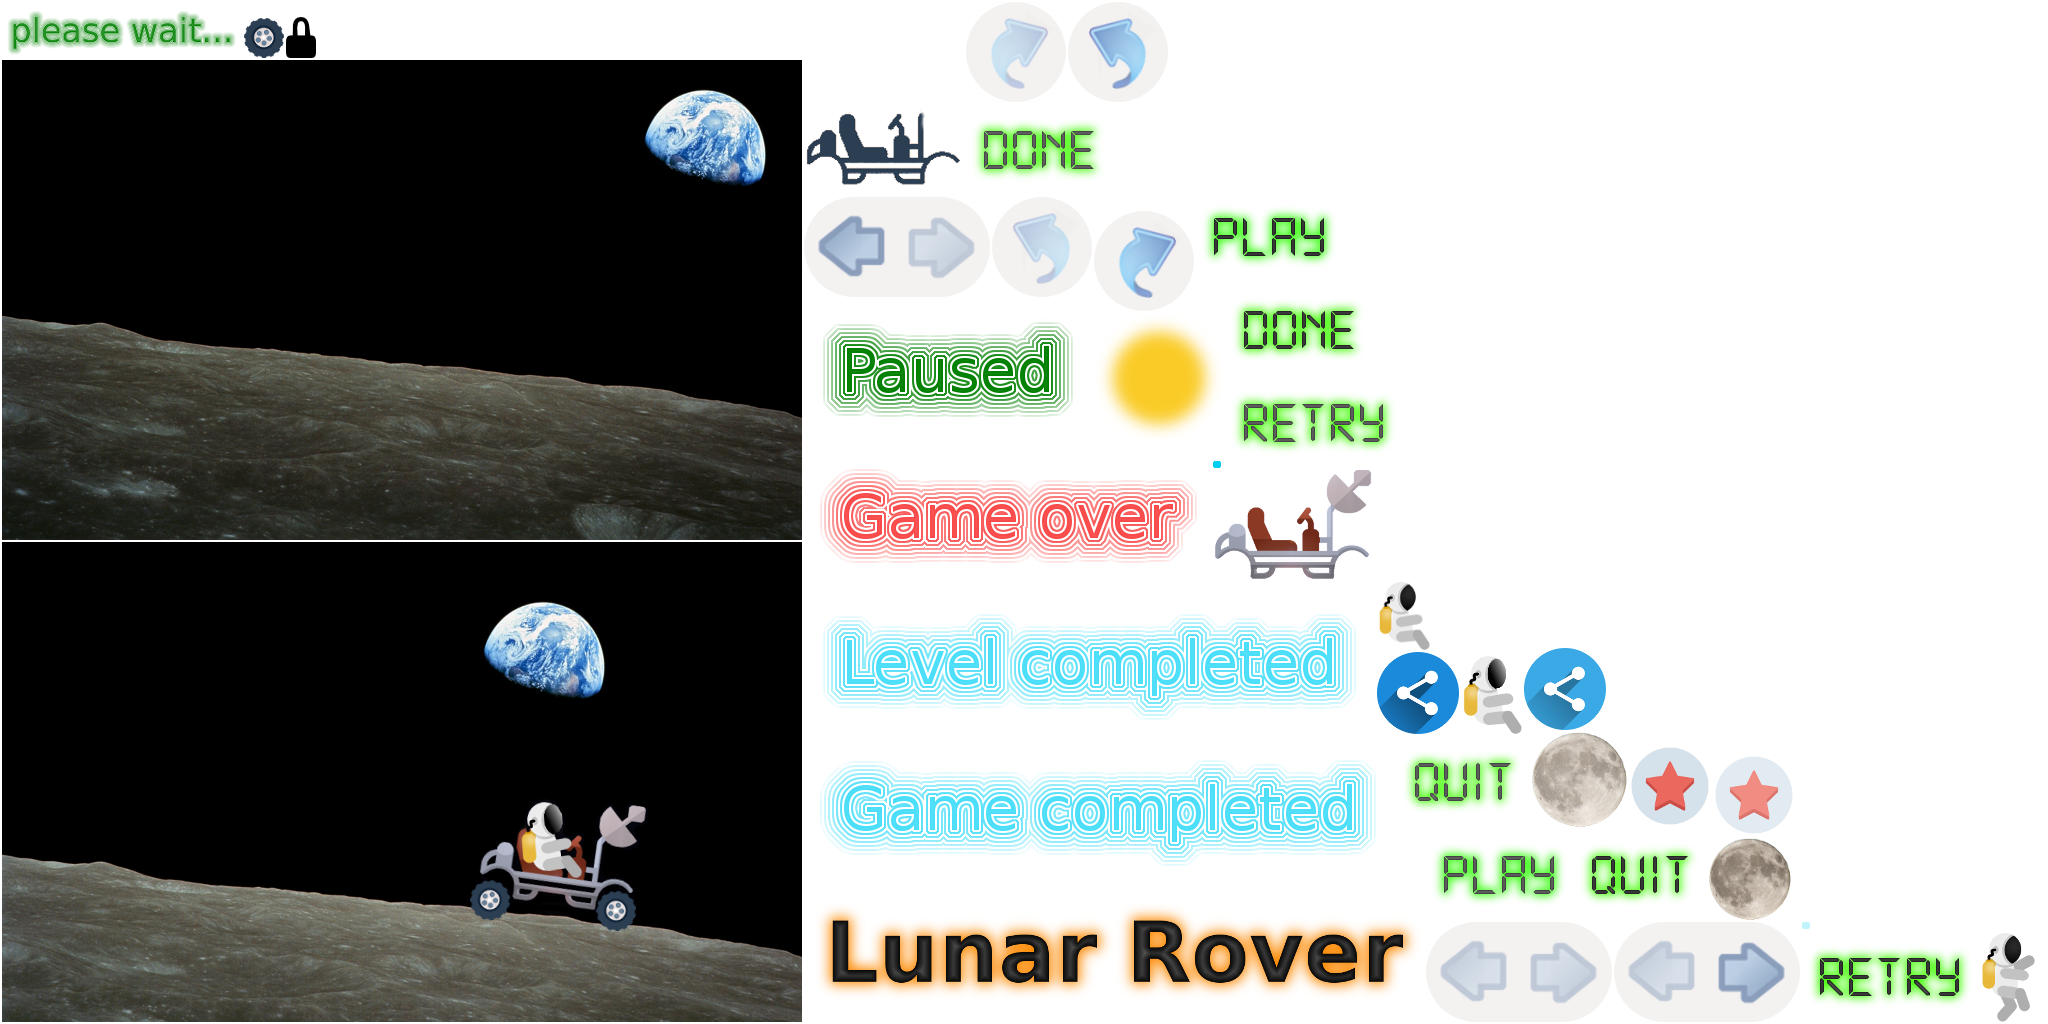
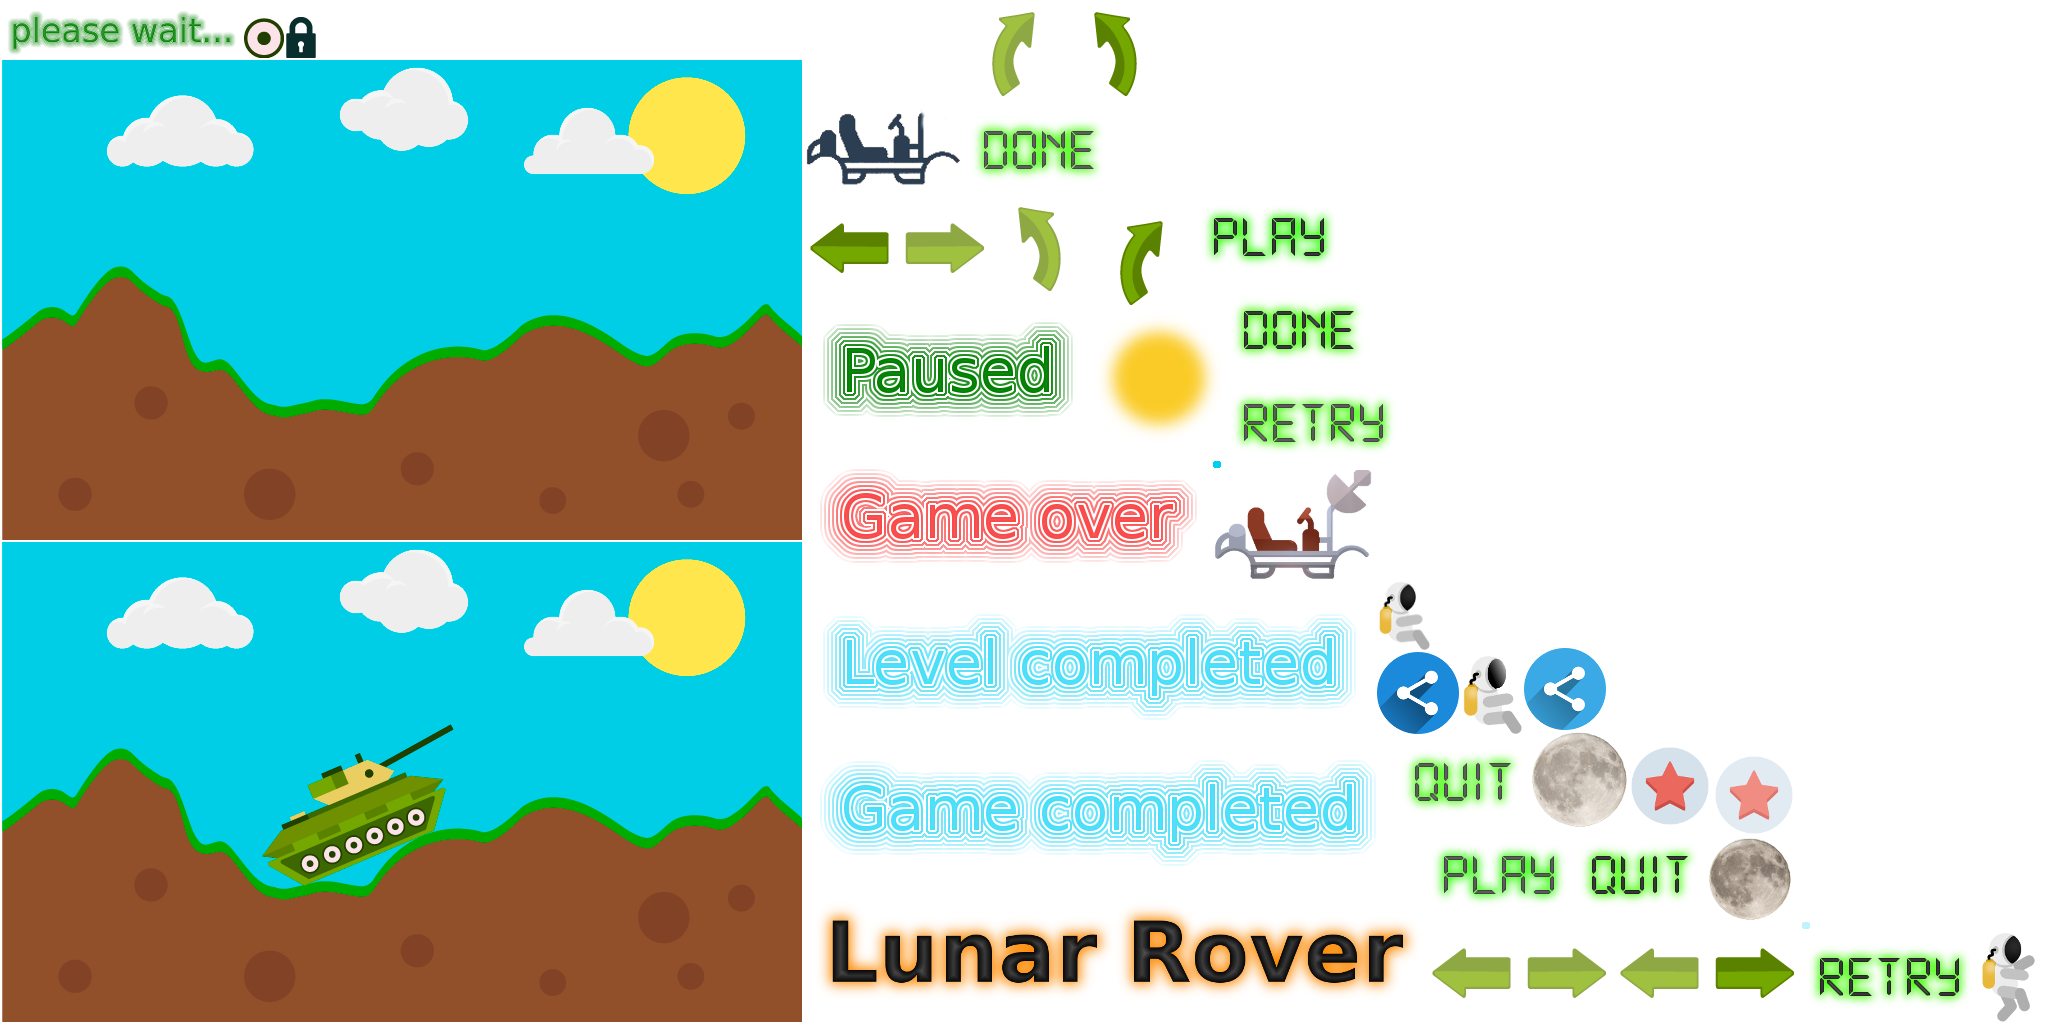
Feature # Add new assets. Rename project.

diff --git a/core/src/vlad/stupak/screens/LevelList.java b/core/src/vlad/stupak/screens/LevelList.java
@@ -10,7 +10,7 @@ import com.badlogic.gdx.scenes.scene2d.utils.ClickListener;
 import com.badlogic.gdx.scenes.scene2d.utils.TextureRegionDrawable;
 import com.boontaran.games.StageGame;
 
-import vlad.stupak.BikeRacing;
+import vlad.stupak.TankHill;
 import vlad.stupak.Setting;
 import vlad.stupak.media.LevelIcon;
 
@@ -25,7 +25,7 @@ public class LevelList  extends StageGame {
     private int selectedLevelId = 0;
 
     public LevelList() {
-        Image bg = new Image(BikeRacing.atlas.findRegion("intro_bg"));
+        Image bg = new Image(TankHill.atlas.findRegion("intro_bg"));
         addBackground(bg, true, false);
 
         container = new Group();
@@ -38,7 +38,7 @@ public class LevelList  extends StageGame {
         int id = 1;
         int x, y;
 
-        int progress = BikeRacing.data.getProgress();
+        int progress = TankHill.data.getProgress();
 
         for (y = 0; y < row; y++) {
             for (x = 0; x < col; x++) {
@@ -78,8 +78,8 @@ public class LevelList  extends StageGame {
         container.setColor(1,1,1,0);
         container.addAction(Actions.alpha(1, 0.4f));
 
-        ImageButton rateBtn = new ImageButton(new TextureRegionDrawable(BikeRacing.atlas.findRegion("rate")),
-                new TextureRegionDrawable(BikeRacing.atlas.findRegion("rate_down")));
+        ImageButton rateBtn = new ImageButton(new TextureRegionDrawable(TankHill.atlas.findRegion("rate")),
+                new TextureRegionDrawable(TankHill.atlas.findRegion("rate_down")));
 
         addChild(rateBtn);
         rateBtn.setX(getWidth() - rateBtn.getWidth() - 20);
@@ -92,8 +92,8 @@ public class LevelList  extends StageGame {
             }
         });
 
-        ImageButton shareBtn = new ImageButton(new TextureRegionDrawable(BikeRacing.atlas.findRegion("share")),
-                new TextureRegionDrawable(BikeRacing.atlas.findRegion("share_down")));
+        ImageButton shareBtn = new ImageButton(new TextureRegionDrawable(TankHill.atlas.findRegion("share")),
+                new TextureRegionDrawable(TankHill.atlas.findRegion("share_down")));
         addChild(shareBtn);
         shareBtn.setX(getWidth() - shareBtn.getWidth() - 20);
         shareBtn.setY(20);
@@ -112,7 +112,7 @@ public class LevelList  extends StageGame {
         @Override
         public void clicked(InputEvent event, float x, float y) {
             selectedLevelId = ((LevelIcon)event.getTarget()).getId();
-            BikeRacing.media.playSound("click.ogg");
+            TankHill.media.playSound("click.ogg");
             call(ON_LEVEL_SELECTED);
         }
     };
@@ -120,7 +120,7 @@ public class LevelList  extends StageGame {
     @Override
     public boolean keyUp(int keycode) {
         if (keycode == Input.Keys.ESCAPE || keycode == Input.Keys.BACK) {
-            BikeRacing.media.playSound("click.ogg");
+            TankHill.media.playSound("click.ogg");
             call(ON_BACK);
             return true;
         }

diff --git a/core/src/vlad/stupak/player/Player.java b/core/src/vlad/stupak/player/Player.java
@@ -21,7 +21,7 @@ import com.boontaran.marchingSquare.MarchingSquare;
 
 import java.util.ArrayList;
 
-import vlad.stupak.BikeRacing;
+import vlad.stupak.TankHill;
 import vlad.stupak.Setting;
 import vlad.stupak.levels.Level;
 import vlad.stupak.UserData;
@@ -52,13 +52,13 @@ public class Player extends ActorClip implements IBody{
     public Player(Level level) {
         this.level = level;
 
-        roverImg = new Image(BikeRacing.atlas.findRegion("rover"));
+        roverImg = new Image(TankHill.atlas.findRegion("rover"));
         childs.addActor(roverImg);
         roverImg.setX(-roverImg.getWidth()/2);
 
         roverImg.setY(-15);
 
-        astronautImg = new Image(BikeRacing.atlas.findRegion("astronaut"));
+        astronautImg = new Image(TankHill.atlas.findRegion("astronaut"));
         childs.addActor(astronautImg);
 
         astronautImg.setX(-35);
@@ -66,7 +66,7 @@ public class Player extends ActorClip implements IBody{
 
         astronautFallCont = new Group();
 
-        astronautFallImg = new Image(BikeRacing.atlas.findRegion("astronaut_fall"));
+        astronautFallImg = new Image(TankHill.atlas.findRegion("astronaut_fall"));
         astronautFallCont.addActor(astronautFallImg);
 
         astronautFallImg.setX(-astronautFallImg.getWidth()/2);
@@ -92,7 +92,7 @@ public class Player extends ActorClip implements IBody{
         def.linearDamping = 0;
 
         frontWheelCont = new Group();
-        frontWheelImage = new Image(BikeRacing.atlas.findRegion("front_wheel"));
+        frontWheelImage = new Image(TankHill.atlas.findRegion("front_wheel"));
 
         frontWheelCont.addActor(frontWheelImage);
         frontWheelImage.setX(-frontWheelImage.getWidth()/2);
@@ -110,7 +110,7 @@ public class Player extends ActorClip implements IBody{
 
 
         rearWheelCont = new Group();
-        rearWheelImg = new Image(BikeRacing.atlas.findRegion("rear_wheel"));
+        rearWheelImg = new Image(TankHill.atlas.findRegion("rear_wheel"));
         rearWheelCont.addActor(rearWheelImg);
         rearWheelImg.setX(-rearWheelImg.getWidth()/2);
         rearWheelImg.setY(-rearWheelImg.getHeight()/2);
@@ -155,8 +155,8 @@ public class Player extends ActorClip implements IBody{
 
     private float[] traceOutline(String regionName) {
 
-        Texture bodyOutLine = BikeRacing.atlas.findRegion(regionName).getTexture();
-        TextureAtlas.AtlasRegion reg = BikeRacing.atlas.findRegion(regionName);
+        Texture bodyOutLine = TankHill.atlas.findRegion(regionName).getTexture();
+        TextureAtlas.AtlasRegion reg = TankHill.atlas.findRegion(regionName);
         int w = reg.getRegionWidth();
         int h = reg.getRegionHeight();
         int x = reg.getRegionX();

diff --git a/core/src/vlad/stupak/media/LevelIcon.java b/core/src/vlad/stupak/media/LevelIcon.java
@@ -10,7 +10,7 @@ import com.badlogic.gdx.scenes.scene2d.ui.Image;
 import com.badlogic.gdx.scenes.scene2d.ui.Label;
 import com.badlogic.gdx.scenes.scene2d.utils.ClickListener;
 
-import vlad.stupak.BikeRacing;
+import vlad.stupak.TankHill;
 
 public class LevelIcon extends Group{
     private int id;
@@ -22,30 +22,30 @@ public class LevelIcon extends Group{
     public LevelIcon(int id) {
         this.id = id;
 
-        hiliteImg = new Image(BikeRacing.atlas.findRegion("level_icon_hilite"));
+        hiliteImg = new Image(TankHill.atlas.findRegion("level_icon_hilite"));
         addActor(hiliteImg);
         hiliteImg.setVisible(false);
 
-        bg = new Image(BikeRacing.atlas.findRegion("level_icon_bg"));
+        bg = new Image(TankHill.atlas.findRegion("level_icon_bg"));
         addActor(bg);
         setSize(bg.getWidth(), bg.getHeight());
 
         hiliteImg.setX((getWidth()-hiliteImg.getWidth())/2);
         hiliteImg.setY((getHeight()-hiliteImg.getHeight())/2);
 
-        bgDown = new Image(BikeRacing.atlas.findRegion("level_icon_bg_down"));
+        bgDown = new Image(TankHill.atlas.findRegion("level_icon_bg_down"));
         addActor(bgDown);
 
         bgDown.setX(bg.getX() + (bg.getWidth()-bgDown.getWidth())/2);
         bgDown.setY(bg.getY() + (bg.getHeight()-bgDown.getHeight())/2);
         bgDown.setVisible(false);
 
-        lockImg = new Image(BikeRacing.atlas.findRegion("level_icon_lock"));
+        lockImg = new Image(TankHill.atlas.findRegion("level_icon_lock"));
         lockImg.setX((getWidth()-lockImg.getWidth())/2);
         lockImg.setY((getHeight()-lockImg.getHeight())/2);
 
         Label.LabelStyle style = new Label.LabelStyle();
-        style.font = BikeRacing.font40;
+        style.font = TankHill.font40;
         style.fontColor = new Color(0x000000ff);
 
         label = new Label(id + "", style);

diff --git a/android/src/vlad/stupak/AndroidLauncher.java b/android/src/vlad/stupak/AndroidLauncher.java
@@ -33,7 +33,7 @@ public class AndroidLauncher extends AndroidApplication {
 		mainView = new RelativeLayout(this);
 		setContentView(mainView);
 
-		View gameView = initializeForView(new BikeRacing(gameCallback));
+		View gameView = initializeForView(new TankHill(gameCallback));
 		mainView.addView(gameView);
 
 		bannerParams = new RelativeLayout.LayoutParams(RelativeLayout.LayoutParams.WRAP_CONTENT, RelativeLayout.LayoutParams.WRAP_CONTENT);
@@ -49,35 +49,35 @@ public class AndroidLauncher extends AndroidApplication {
 		@Override
 		public void sendMessage(int message) {
 
-			if (message == BikeRacing.SHOW_BANNER) {
+			if (message == TankHill.SHOW_BANNER) {
 				AndroidLauncher.this.runOnUiThread(new Runnable() {
 					@Override
 					public void run() {
 					}
 				});
-			} else if (message == BikeRacing.HIDE_BANNER) {
+			} else if (message == TankHill.HIDE_BANNER) {
 				AndroidLauncher.this.runOnUiThread(new Runnable() {
 					@Override
 					public void run() {
 					}
 				});
-			} else if (message == BikeRacing.LOAD_INTERSTITIAL) {
+			} else if (message == TankHill.LOAD_INTERSTITIAL) {
 
 
-			} else if (message == BikeRacing.SHOW_INTERSTITIAL) {
+			} else if (message == TankHill.SHOW_INTERSTITIAL) {
 				AndroidLauncher.this.runOnUiThread(new Runnable() {
 					@Override
 					public void run() {
 
 					}
 				});
-			} else if (message == BikeRacing.OPEN_MARKET) {
+			} else if (message == TankHill.OPEN_MARKET) {
 				Uri uri = Uri.parse(getString(R.string.share_url));
 				Intent intent = new Intent(Intent.ACTION_VIEW, uri);
 				startActivity(intent);
 
 
-			} else if (message == BikeRacing.SHARE) {
+			} else if (message == TankHill.SHARE) {
 				Intent sharingIntent = new Intent(Intent.ACTION_SEND);
 				sharingIntent.setType("text/plain");
 				String shareTitle = getString(R.string.share_title);

diff --git a/core/src/vlad/stupak/screens/Intro.java b/core/src/vlad/stupak/screens/Intro.java
@@ -13,9 +13,9 @@ import com.badlogic.gdx.scenes.scene2d.utils.ClickListener;
 import com.badlogic.gdx.scenes.scene2d.utils.TextureRegionDrawable;
 import com.boontaran.games.StageGame;
 
-import vlad.stupak.BikeRacing;
+import vlad.stupak.TankHill;
 
-import static vlad.stupak.BikeRacing.media;
+import static vlad.stupak.TankHill.media;
 
 public class Intro extends StageGame{
 
@@ -27,10 +27,10 @@ public class Intro extends StageGame{
 
     public Intro() {
 
-        Image bg = new Image(BikeRacing.atlas.findRegion("intro_bg"));
+        Image bg = new Image(TankHill.atlas.findRegion("intro_bg"));
         addBackground(bg, true, false);
 
-        title = new Image(BikeRacing.atlas.findRegion("title"));
+        title = new Image(TankHill.atlas.findRegion("title"));
         addChild(title);
 
         centerActorX(title);
@@ -45,8 +45,8 @@ public class Intro extends StageGame{
         title.addAction(Actions.delay(0.5f, move));
 
         playBtn = new ImageButton(
-                new TextureRegionDrawable(BikeRacing.atlas.findRegion("play_btn")),
-                new TextureRegionDrawable(BikeRacing.atlas.findRegion("play_btn_down"))
+                new TextureRegionDrawable(TankHill.atlas.findRegion("play_btn")),
+                new TextureRegionDrawable(TankHill.atlas.findRegion("play_btn_down"))
         );
 
         addChild(playBtn);

diff --git a/core/src/vlad/stupak/controls/JoyStick.java b/core/src/vlad/stupak/controls/JoyStick.java
@@ -8,7 +8,7 @@ import com.badlogic.gdx.scenes.scene2d.Group;
 import com.badlogic.gdx.scenes.scene2d.InputEvent;
 import com.badlogic.gdx.scenes.scene2d.ui.Image;
 import com.badlogic.gdx.scenes.scene2d.utils.ClickListener;
-import vlad.stupak.BikeRacing;
+import vlad.stupak.TankHill;
 
 public class JoyStick extends Group{
 
@@ -20,7 +20,7 @@ public class JoyStick extends Group{
 
 
     public JoyStick(float minHeight) {
-        idle = new Image(BikeRacing.atlas.findRegion("joystick"));
+        idle = new Image(TankHill.atlas.findRegion("joystick"));
         addActor(idle);
 
         float scale = 1;
@@ -33,10 +33,10 @@ public class JoyStick extends Group{
 
         setSize(idle.getWidth(), idle.getHeight());
 
-        right = new Image(BikeRacing.atlas.findRegion("joystick_right"));
+        right = new Image(TankHill.atlas.findRegion("joystick_right"));
         right.setSize(getWidth(), getHeight());
         addActor(right);
-        left = new Image(BikeRacing.atlas.findRegion("joystick_left"));
+        left = new Image(TankHill.atlas.findRegion("joystick_left"));
         left.setSize(getWidth(), getHeight());
         addActor(left);
 

diff --git a/core/src/vlad/stupak/TankHill.java b/core/src/vlad/stupak/TankHill.java
@@ -22,7 +22,7 @@ import vlad.stupak.screens.Intro;
 import vlad.stupak.screens.LevelList;
 import vlad.stupak.utils.Data;
 
-public class BikeRacing extends Game {
+public class TankHill extends Game {
 	public static final int SHOW_BANNER = 1;
 	public static final int HIDE_BANNER = 2;
 	public static final int LOAD_INTERSTITIAL = 3;
@@ -46,7 +46,7 @@ public class BikeRacing extends Game {
 	public static Media media;
     private LevelList levelList;
 
-	public BikeRacing(GameCallback gameCallback) {
+	public TankHill(GameCallback gameCallback) {
 		this.gameCallback = gameCallback;
 	}
 

diff --git a/desktop/src/vlad/stupak/desktop/DesktopLauncher.java b/desktop/src/vlad/stupak/desktop/DesktopLauncher.java
@@ -3,7 +3,7 @@ package vlad.stupak.desktop;
 import com.badlogic.gdx.backends.lwjgl.LwjglApplication;
 import com.badlogic.gdx.backends.lwjgl.LwjglApplicationConfiguration;
 
-import vlad.stupak.BikeRacing;
+import vlad.stupak.TankHill;
 import vlad.stupak.GameCallback;
 
 public class DesktopLauncher {
@@ -12,7 +12,7 @@ public class DesktopLauncher {
 		config.width = 800;
 		config.height = 480;
 
-		new LwjglApplication(new BikeRacing(callback), config);
+		new LwjglApplication(new TankHill(callback), config);
 	}
 
 	private GameCallback callback = new GameCallback() {

diff --git a/core/src/vlad/stupak/utils/Data.java b/core/src/vlad/stupak/utils/Data.java
@@ -2,14 +2,10 @@ package vlad.stupak.utils;
 
 import com.boontaran.DataManager;
 
-/**
- * Created by Vlad on 07.03.2017.
- */
-
 public class Data {
     private DataManager manager;
 
-    private static final String PREFERENCE_NAME = "lunar_rover_data";
+    private static final String PREFERENCE_NAME = "tank_hill_data";
     private static final String PROGRESS_KEY = "progress";
 
     public Data() {
